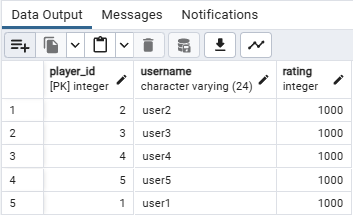
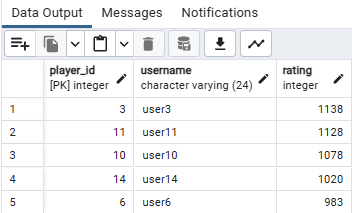
queries docs update

diff --git a/documentation/queries.md b/documentation/queries.md
@@ -150,7 +150,7 @@ og sætter et limit på 5 spillere (`LIMIT 5`).
 
 ![img.png](/images/queries/q7.png)
 
-Mangler rigtigt rating før beskrivelse kan komme.
+Her kan vi se de 5 bedst rangerede spillere, som er `user3 (rating = 1138), user11 (rating = 1128), user10 (rating = 1078), user14 (rating = 1020), user6 (rating = 983)`.
 
 ---
 
@@ -169,7 +169,7 @@ hvilket vil give os den gennemsnitlige rating for alle spillere.
 
 ![img.png](/images/queries/q8.png)
 
-Her kan vi se at den gennemsnitlige rating for alle spillere er **XXXXX**.
+Her kan vi se at den gennemsnitlige rating for alle spillere er 946.93.
 
 ---
 
